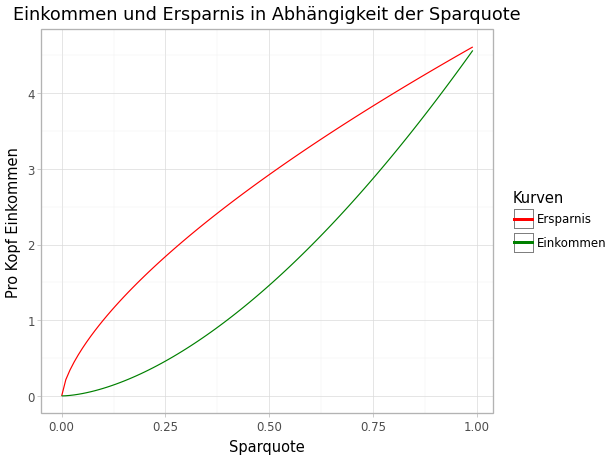
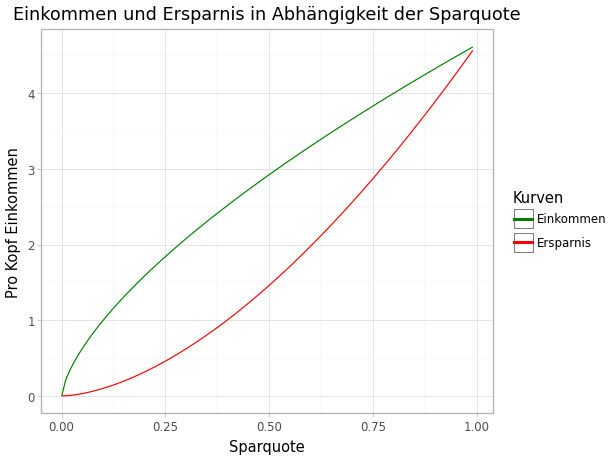
Korrektur Grafik

diff --git a/docs/Neoklassik.html b/docs/Neoklassik.html
@@ -370,7 +370,7 @@ Pfad zum Gleichgewicht
 </section>
 <section id="entwicklung-des-kapitalstocks" class="level2" data-number="4.5">
 <h2 data-number="4.5" class="anchored" data-anchor-id="entwicklung-des-kapitalstocks"><span class="header-section-number">4.5</span> Entwicklung des Kapitalstocks</h2>
-<div id="d3be8f94" class="cell" data-message="false" data-execution_count="1">
+<div id="f9dea9b8" class="cell" data-message="false" data-execution_count="1">
 <details class="code-fold">
 <summary>Code</summary>
 <div class="sourceCode cell-code" id="cb1"><pre class="sourceCode python code-with-copy"><code class="sourceCode python"><span id="cb1-1"><a href="#cb1-1" aria-hidden="true" tabindex="-1"></a><span class="im">import</span> plotnine <span class="im">as</span> gg</span>
@@ -427,7 +427,7 @@ Pfad zum Gleichgewicht
 <span id="cb1-52"><a href="#cb1-52" aria-hidden="true" tabindex="-1"></a>                  <span class="st">'y'</span>: y_t})</span></code><button title="Copy to Clipboard" class="code-copy-button"><i class="bi"></i></button></pre></div>
 </details>
 </div>
-<div id="35b3d5bb" class="cell" data-message="false" data-execution_count="2">
+<div id="bfc6fcbb" class="cell" data-message="false" data-execution_count="2">
 <details class="code-fold">
 <summary>Code</summary>
 <div class="sourceCode cell-code" id="cb2"><pre class="sourceCode python code-with-copy"><code class="sourceCode python"><span id="cb2-1"><a href="#cb2-1" aria-hidden="true" tabindex="-1"></a><span class="co">#Grafiken</span></span>
@@ -447,7 +447,7 @@ Pfad zum Gleichgewicht
 </div>
 </div>
 </div>
-<div id="f1d86b99" class="cell" data-message="false" data-execution_count="3">
+<div id="be4f735a" class="cell" data-message="false" data-execution_count="3">
 <details class="code-fold">
 <summary>Code</summary>
 <div class="sourceCode cell-code" id="cb3"><pre class="sourceCode python code-with-copy"><code class="sourceCode python"><span id="cb3-1"><a href="#cb3-1" aria-hidden="true" tabindex="-1"></a>(</span>
@@ -475,7 +475,7 @@ Pfad zum Gleichgewicht
 </div>
 </div>
 </div>
-<div id="5256aa1c" class="cell" data-message="false" data-execution_count="4">
+<div id="a3d246f2" class="cell" data-message="false" data-execution_count="4">
 <details class="code-fold">
 <summary>Code</summary>
 <div class="sourceCode cell-code" id="cb4"><pre class="sourceCode python code-with-copy"><code class="sourceCode python"><span id="cb4-1"><a href="#cb4-1" aria-hidden="true" tabindex="-1"></a>(</span>
@@ -510,7 +510,7 @@ Pfad zum Gleichgewicht
 </section>
 <section id="entwicklung-des-einkommens" class="level2" data-number="4.6">
 <h2 data-number="4.6" class="anchored" data-anchor-id="entwicklung-des-einkommens"><span class="header-section-number">4.6</span> Entwicklung des Einkommens</h2>
-<div id="0d273353" class="cell" data-message="false" data-execution_count="5">
+<div id="d53a6a35" class="cell" data-message="false" data-execution_count="5">
 <details class="code-fold">
 <summary>Code</summary>
 <div class="sourceCode cell-code" id="cb5"><pre class="sourceCode python code-with-copy"><code class="sourceCode python"><span id="cb5-1"><a href="#cb5-1" aria-hidden="true" tabindex="-1"></a>(gg.ggplot(df, gg.aes(<span class="st">'t'</span>, <span class="st">'y'</span>)) <span class="op">+</span> gg.geom_line() <span class="op">+</span></span>
@@ -537,7 +537,7 @@ Pfad zum Gleichgewicht
 <p><span class="math inline">\(c=(1-s)y=(1-s){\left(\frac{s}{\delta}\right)}^{\frac{\alpha }{1-\alpha }}\)</span></p>
 <p>Das sieht so aus, als könne es eine innere Lösung geben.</p>
 <p>Finden wir ein Maximum?</p>
-<div id="53765deb" class="cell" data-message="false" data-execution_count="6">
+<div id="c94a6a0d" class="cell" data-message="false" data-execution_count="6">
 <details class="code-fold">
 <summary>Code</summary>
 <div class="sourceCode cell-code" id="cb6"><pre class="sourceCode python code-with-copy"><code class="sourceCode python"><span id="cb6-1"><a href="#cb6-1" aria-hidden="true" tabindex="-1"></a><span class="co"># Goldene Regel</span></span>
@@ -569,7 +569,7 @@ Pfad zum Gleichgewicht
 <span id="cb6-27"><a href="#cb6-27" aria-hidden="true" tabindex="-1"></a><span class="co">#print(df)</span></span></code><button title="Copy to Clipboard" class="code-copy-button"><i class="bi"></i></button></pre></div>
 </details>
 </div>
-<div id="0d473b43" class="cell" data-message="false" data-execution_count="7">
+<div id="8fd32366" class="cell" data-message="false" data-execution_count="7">
 <details class="code-fold">
 <summary>Code</summary>
 <div class="sourceCode cell-code" id="cb7"><pre class="sourceCode python code-with-copy"><code class="sourceCode python"><span id="cb7-1"><a href="#cb7-1" aria-hidden="true" tabindex="-1"></a>(gg.ggplot(df, gg.aes(<span class="st">'Sparquote'</span>, <span class="st">'Konsum'</span>)) <span class="op">+</span> gg.geom_line() <span class="op">+</span></span>
@@ -586,7 +586,7 @@ Pfad zum Gleichgewicht
 </div>
 </div>
 </div>
-<div id="4cfda1e5" class="cell" data-message="false" data-execution_count="8">
+<div id="68003e32" class="cell" data-message="false" data-execution_count="8">
 <details class="code-fold">
 <summary>Code</summary>
 <div class="sourceCode cell-code" id="cb8"><pre class="sourceCode python code-with-copy"><code class="sourceCode python"><span id="cb8-1"><a href="#cb8-1" aria-hidden="true" tabindex="-1"></a>(</span>
@@ -594,8 +594,8 @@ Pfad zum Gleichgewicht
 <span id="cb8-3"><a href="#cb8-3" aria-hidden="true" tabindex="-1"></a>    <span class="op">+</span> gg.geom_line(gg.aes(y<span class="op">=</span><span class="st">'y'</span>, color<span class="op">=</span><span class="st">'"Einkommen"'</span>))          <span class="co"># Grün für Einkommen</span></span>
 <span id="cb8-4"><a href="#cb8-4" aria-hidden="true" tabindex="-1"></a>    <span class="op">+</span> gg.geom_line(gg.aes(y<span class="op">=</span><span class="st">'Ersparnis'</span>, color<span class="op">=</span><span class="st">'"Ersparnis"'</span>))  <span class="co"># Rot für Ersparnis</span></span>
 <span id="cb8-5"><a href="#cb8-5" aria-hidden="true" tabindex="-1"></a>    <span class="op">+</span> gg.scale_color_manual(</span>
-<span id="cb8-6"><a href="#cb8-6" aria-hidden="true" tabindex="-1"></a>        values<span class="op">=</span>[<span class="st">"red"</span>, <span class="st">"green"</span>],  <span class="co"># Rot für Ersparnis, Grün für Einkommen</span></span>
-<span id="cb8-7"><a href="#cb8-7" aria-hidden="true" tabindex="-1"></a>        labels<span class="op">=</span>[<span class="st">"Ersparnis"</span>, <span class="st">"Einkommen"</span>],  <span class="co"># Explizite Labelzuordnung</span></span>
+<span id="cb8-6"><a href="#cb8-6" aria-hidden="true" tabindex="-1"></a>        values<span class="op">=</span>[<span class="st">"green"</span>, <span class="st">"red"</span>],  <span class="co"># Rot für Ersparnis, Grün für Einkommen</span></span>
+<span id="cb8-7"><a href="#cb8-7" aria-hidden="true" tabindex="-1"></a>        labels<span class="op">=</span>[<span class="st">"Einkommen"</span>, <span class="st">"Ersparnis"</span>],  <span class="co"># Explizite Labelzuordnung</span></span>
 <span id="cb8-8"><a href="#cb8-8" aria-hidden="true" tabindex="-1"></a>        name<span class="op">=</span><span class="st">"Kurven"</span>                    <span class="co"># Legendentitel</span></span>
 <span id="cb8-9"><a href="#cb8-9" aria-hidden="true" tabindex="-1"></a>    )</span>
 <span id="cb8-10"><a href="#cb8-10" aria-hidden="true" tabindex="-1"></a>    <span class="op">+</span> gg.labs(</span>
@@ -616,7 +616,7 @@ Pfad zum Gleichgewicht
 </div>
 </div>
 <p>Wie bestimmt sich denn nun die Sparquote für maximalen Konsum analytisch?</p>
-<div id="9d1ea076" class="cell" data-message="false" data-execution_count="9">
+<div id="06db3483" class="cell" data-message="false" data-execution_count="9">
 <details class="code-fold">
 <summary>Code</summary>
 <div class="sourceCode cell-code" id="cb9"><pre class="sourceCode python code-with-copy"><code class="sourceCode python"><span id="cb9-1"><a href="#cb9-1" aria-hidden="true" tabindex="-1"></a><span class="im">from</span> sympy <span class="im">import</span> Symbol, solve, Eq, diff, simplify, print_latex</span>
